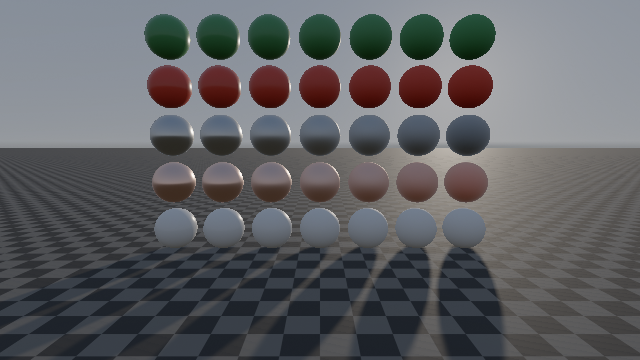
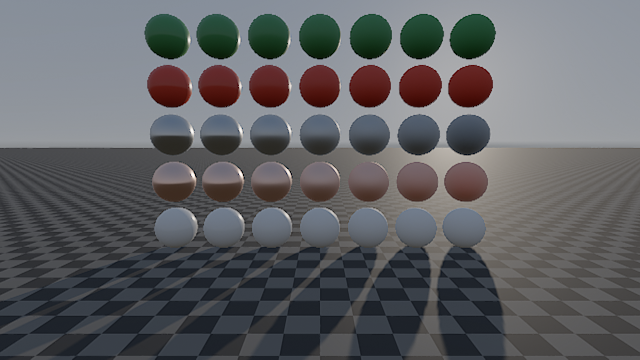
AMD legacy driver (R5 M330, Vulkan 1.2.170) crash: classic framebuffers instead of imageless ones on old AMD drivers (TEFRA_IMAGELESS override), TEFRA_TRACE_PASSES diagnostics; saving recreates a missing project folder and logs the reason [release]
Claude-Session: https://claude.ai/code/session_0175iHfgMKvPxFPfbt6BAo9o

diff --git a/engine/rhi/src/pipeline.cpp b/engine/rhi/src/pipeline.cpp
@@ -4,10 +4,54 @@
 #include "tefra/core/fs.h"
 #include "tefra/core/log.h"
 
+#include <mutex>
 #include <string>
 #include <vector>
 
 namespace tefra::rhi {
+
+namespace {
+struct FbEntry {
+    VkRenderPass pass = VK_NULL_HANDLE;
+    VkImageView views[9] = {};
+    u32 count = 0;
+    VkExtent2D extent{};
+    VkFramebuffer fb = VK_NULL_HANDLE;
+    u64 last_frame = 0;
+};
+struct FbCache {
+    std::mutex m;
+    VkDevice device = VK_NULL_HANDLE;
+    bool imageless = true;
+    u64 frame = 0;
+    std::vector<FbEntry> entries;
+};
+FbCache g_fb;
+constexpr u64 kFbMaxAge = 4; // frames; > frames in flight
+} // namespace
+
+void set_imageless_framebuffers(bool enabled) { g_fb.imageless = enabled; }
+bool imageless_framebuffers() { return g_fb.imageless; }
+
+void framebuffer_cache_next_frame() {
+    std::lock_guard<std::mutex> lock(g_fb.m);
+    ++g_fb.frame;
+    for (usize i = 0; i < g_fb.entries.size();) {
+        if (g_fb.frame - g_fb.entries[i].last_frame > kFbMaxAge) {
+            vkDestroyFramebuffer(g_fb.device, g_fb.entries[i].fb, nullptr);
+            g_fb.entries[i] = g_fb.entries.back();
+            g_fb.entries.pop_back();
+        } else {
+            ++i;
+        }
+    }
+}
+
+void framebuffer_cache_clear() {
+    std::lock_guard<std::mutex> lock(g_fb.m);
+    for (const FbEntry& e : g_fb.entries) vkDestroyFramebuffer(g_fb.device, e.fb, nullptr);
+    g_fb.entries.clear();
+}
 
 VkShaderModule load_shader(const Device& dev, const char* name) {
     const std::string path = path_join(path_join(exe_dir(), "shaders"), std::string(name) + ".spv");
@@ -82,6 +126,11 @@ RenderPassObjects create_render_pass(const Device& dev, const RenderPassDesc& de
     rci.subpassCount = 1;
     rci.pSubpasses = &sub;
     TEFRA_VK_CHECK(vkCreateRenderPass2(dev.device(), &rci, nullptr, &rp.pass));
+    g_fb.device = dev.device();
+    if (!g_fb.imageless) {
+        if (name) dev.set_name(VK_OBJECT_TYPE_RENDER_PASS, reinterpret_cast<u64>(rp.pass), name);
+        return rp; // framebuffers are created per view set in cmd_begin_render_pass
+    }
 
     VkFramebufferAttachmentsCreateInfo faci{VK_STRUCTURE_TYPE_FRAMEBUFFER_ATTACHMENTS_CREATE_INFO};
     faci.attachmentImageInfoCount = static_cast<u32>(fb_infos.size());
@@ -103,6 +152,18 @@ RenderPassObjects create_render_pass(const Device& dev, const RenderPassDesc& de
 }
 
 void destroy_render_pass(const Device& dev, RenderPassObjects& rp) {
+    if (rp.pass) {
+        std::lock_guard<std::mutex> lock(g_fb.m);
+        for (usize i = 0; i < g_fb.entries.size();) {
+            if (g_fb.entries[i].pass == rp.pass) {
+                vkDestroyFramebuffer(dev.device(), g_fb.entries[i].fb, nullptr);
+                g_fb.entries[i] = g_fb.entries.back();
+                g_fb.entries.pop_back();
+            } else {
+                ++i;
+            }
+        }
+    }
     if (rp.framebuffer) vkDestroyFramebuffer(dev.device(), rp.framebuffer, nullptr);
     if (rp.pass) vkDestroyRenderPass(dev.device(), rp.pass, nullptr);
     rp = {};
@@ -114,9 +175,47 @@ void cmd_begin_render_pass(VkCommandBuffer cmd, const RenderPassObjects& rp, std
     abi.attachmentCount = static_cast<u32>(views.size());
     abi.pAttachments = views.data();
     VkRenderPassBeginInfo bi{VK_STRUCTURE_TYPE_RENDER_PASS_BEGIN_INFO};
-    bi.pNext = &abi;
     bi.renderPass = rp.pass;
-    bi.framebuffer = rp.framebuffer;
+    if (rp.framebuffer) {
+        bi.pNext = &abi;
+        bi.framebuffer = rp.framebuffer;
+    } else {
+        // Classic framebuffer for this exact set of views (cached).
+        std::lock_guard<std::mutex> lock(g_fb.m);
+        const u32 n = static_cast<u32>(views.size());
+        TEFRA_VERIFY(n <= 9);
+        FbEntry* hit = nullptr;
+        for (FbEntry& e : g_fb.entries) {
+            if (e.pass != rp.pass || e.count != n || e.extent.width != rp.extent.width ||
+                e.extent.height != rp.extent.height)
+                continue;
+            bool same = true;
+            for (u32 i = 0; i < n && same; ++i) same = e.views[i] == views[i];
+            if (same) {
+                hit = &e;
+                break;
+            }
+        }
+        if (!hit) {
+            FbEntry e;
+            e.pass = rp.pass;
+            e.count = n;
+            e.extent = rp.extent;
+            for (u32 i = 0; i < n; ++i) e.views[i] = views[i];
+            VkFramebufferCreateInfo fci{VK_STRUCTURE_TYPE_FRAMEBUFFER_CREATE_INFO};
+            fci.renderPass = rp.pass;
+            fci.attachmentCount = n;
+            fci.pAttachments = views.data();
+            fci.width = rp.extent.width;
+            fci.height = rp.extent.height;
+            fci.layers = 1;
+            TEFRA_VK_CHECK(vkCreateFramebuffer(g_fb.device, &fci, nullptr, &e.fb));
+            g_fb.entries.push_back(e);
+            hit = &g_fb.entries.back();
+        }
+        hit->last_frame = g_fb.frame;
+        bi.framebuffer = hit->fb;
+    }
     bi.renderArea = {{0, 0}, rp.extent};
     bi.clearValueCount = static_cast<u32>(clears.size());
     bi.pClearValues = clears.data();

diff --git a/engine/rhi/src/device.cpp b/engine/rhi/src/device.cpp
@@ -1,4 +1,5 @@
 #include "tefra/rhi/device.h"
+#include "tefra/rhi/pipeline.h"
 
 #include "tefra/core/log.h"
 #include "tefra/core/math.h"
@@ -369,6 +370,14 @@ bool Device::init(const DeviceDesc& desc) {
     }
     TEFRA_LOG_INFO("GPU %u: %s (%s, Vulkan %s, %s %s)", adapter_.index, adapter_.name.c_str(), adapter_.type.c_str(),
                    adapter_.api_version.c_str(), adapter_.driver_name.c_str(), adapter_.driver_info.c_str());
+    // Legacy AMD drivers (GCN 1.x on Windows stop at Vulkan 1.2.1xx) crash inside vkCmdBeginRenderPass2 with
+    // imageless framebuffers: use classic framebuffers there. TEFRA_IMAGELESS=0/1 forces either path.
+    {
+        bool imageless = !(q.props.vendorID == 0x1002 && VK_API_VERSION_MINOR(q.props.apiVersion) < 3);
+        if (const char* e = std::getenv("TEFRA_IMAGELESS")) imageless = e[0] == '1';
+        set_imageless_framebuffers(imageless);
+        if (!imageless) TEFRA_LOG_INFO("Framebuffers: classic (imageless disabled for this driver)");
+    }
 
     // ---- Queue ------------------------------------------------------------------------------------
     u32 qf_count = 0;

diff --git a/engine/rhi/include/tefra/rhi/pipeline.h b/engine/rhi/include/tefra/rhi/pipeline.h
@@ -40,6 +40,14 @@ RenderPassObjects create_render_pass(const Device& dev, const RenderPassDesc& de
                                      const char* name = nullptr);
 void destroy_render_pass(const Device& dev, RenderPassObjects& rp);
 
+// Imageless framebuffers (Vulkan 1.2 core) are the default. Some legacy drivers (AMD GCN 1.x on Windows,
+// Vulkan 1.2.1xx) crash on them; then a classic framebuffer is created per (render pass, views) on first use and
+// cached, entries unused for a few frames are destroyed. Device creation decides; TEFRA_IMAGELESS=0/1 overrides.
+void set_imageless_framebuffers(bool enabled);
+bool imageless_framebuffers();
+void framebuffer_cache_next_frame(); // FrameLoop::begin: ages and purges cached framebuffers
+void framebuffer_cache_clear();      // after a full GPU wait (views may be recreated with recycled handles)
+
 // Begins the pass with concrete views (colors then depth) and sets a full viewport/scissor.
 void cmd_begin_render_pass(VkCommandBuffer cmd, const RenderPassObjects& rp, std::span<const VkImageView> views,
                            std::span<const VkClearValue> clears);

diff --git a/engine/rendergraph/src/graph.cpp b/engine/rendergraph/src/graph.cpp
@@ -9,6 +9,7 @@
 
 #include "tefra/core/log.h"
 
+#include <cstdlib>
 #include <cstring>
 
 namespace tefra::rg {
@@ -467,6 +468,12 @@ void Graph::execute(VkCommandBuffer cmd) {
             g.transition(merged[k].tex, merged[k].req, merged[k].discard);
             g.textures[merged[k].tex].touched = true;
         }
+        // TEFRA_TRACE_PASSES=1 logs every pass before it is recorded (finds the pass a crashing driver dies in).
+        static const bool trace = [] {
+            const char* e = std::getenv("TEFRA_TRACE_PASSES");
+            return e && e[0] == '1';
+        }();
+        if (trace) TEFRA_LOG_INFO("render graph: recording pass '%s'", p.name);
         const u32 scope = g.timer ? g.timer->begin(cmd, p.name) : ~0u;
         if (!g.timer) rhi::cmd_begin_label(cmd, p.name);
         g.flush_barriers(cmd);

diff --git a/engine/rhi/src/frame.cpp b/engine/rhi/src/frame.cpp
@@ -1,5 +1,6 @@
 #include "tefra/rhi/frame.h"
 #include "tefra/rhi/device.h"
+#include "tefra/rhi/pipeline.h"
 
 #include "tefra/core/time.h"
 
@@ -35,6 +36,7 @@ FrameLoop::~FrameLoop() {
 }
 
 FrameContext& FrameLoop::begin() {
+    framebuffer_cache_next_frame();
     const u32 slot = static_cast<u32>(frame_number_ % count_);
     const u64 t0 = time_now_ns();
     if (slot_value_[slot] > 0) {
@@ -92,6 +94,7 @@ void FrameLoop::wait_all() {
     wi.pSemaphores = &timeline_;
     wi.pValues = &timeline_value_;
     TEFRA_VK_CHECK(vkWaitSemaphores(dev_.device(), &wi, UINT64_MAX));
+    framebuffer_cache_clear();
 }
 
 } // namespace tefra::rhi

diff --git a/apps/studio/src/session.cpp b/apps/studio/src/session.cpp
@@ -4,6 +4,8 @@
 #include "tefra/core/log.h"
 
 #include <algorithm>
+#include <cerrno>
+#include <cstring>
 
 namespace tefra::studio {
 
@@ -54,7 +56,7 @@ bool Session::save(const std::string& path) {
     const std::string p = path.empty() ? path_ : path;
     if (p.empty() || state_ != PlayState::Edit) return false;
     if (!model_->save(p.c_str())) {
-        TEFRA_LOG_ERROR("Cannot save %s", p.c_str());
+        TEFRA_LOG_ERROR("Cannot save %s (%s)", p.c_str(), std::strerror(errno));
         return false;
     }
     path_ = p;

diff --git a/engine/world/src/datamodel.cpp b/engine/world/src/datamodel.cpp
@@ -568,6 +568,8 @@ bool DataModel::from_json(const JsonValue& doc, std::string* error) {
 
 bool DataModel::save(const char* path) const {
     const std::string text = to_json().dump(true);
+    const std::string dir = path_parent(path);
+    if (!dir.empty()) make_dirs(dir.c_str()); // the project folder may have been removed or never created
     return file_write_all(path, text.data(), text.size());
 }
 
